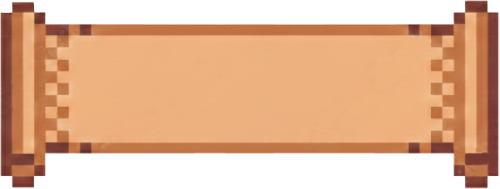
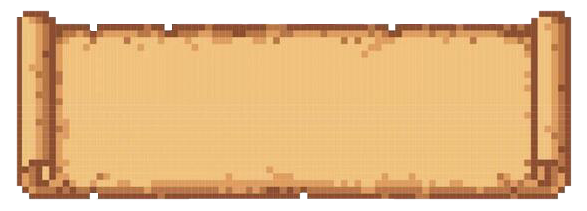
added controls menu that opens and closes

diff --git a/src/startMenu.ts b/src/startMenu.ts
@@ -39,26 +39,32 @@ class StartMenu {
   }
 
   public draw() {
+    image(
+      images.menuImages.background,
+      0,
+      0,
+      GamePanel.screenWidth,
+      GamePanel.screenHeight,
+    );
+    image(images.menuImages.logo, GamePanel.worldWidth / 2 - 150, 60, 300, 145);
     if (this.controlsOnScreen === true) {
       this.drawControls();
     } else {
-      image(
-        images.menuImages.background,
-        0,
-        0,
-        GamePanel.screenWidth,
-        GamePanel.screenHeight,
-      );
-      image(images.menuImages.logo, GamePanel.worldWidth / 2 - 150, 60, 300, 145);
-      push();
       this.startButton.draw();
       this.showControls.draw();
     }
   }
+
   public drawControls() {
-    push();
     image(
-      images.menuImages.button, GamePanel.worldWidth / 2 - GamePanel.worldWidth / 2 + 25, GamePanel.worldHeight / 2 - GamePanel.worldHeight / 2 + 25, GamePanel.worldWidth - 50, GamePanel.worldHeight - 50)
-    pop();
+      images.menuImages.controls,
+      GamePanel.worldWidth / 2 - GamePanel.worldWidth / 2 + 125,
+      GamePanel.worldHeight / 2 - GamePanel.worldHeight / 2 + 100,
+      GamePanel.worldWidth - 250,
+      GamePanel.worldHeight - 200,
+    );
+    if (keyIsDown(ESCAPE)) {
+      this.controlsOnScreen = false;
+    }
   }
 }

diff --git a/src/game.ts b/src/game.ts
@@ -6,19 +6,19 @@ class Game {
 
   constructor() {
     this.levelFactory = new LevelFactory(tiles, 0, 0);
-    this.level = new Level([])
+    this.level = new Level([]);
     this.startMenu = new StartMenu(this);
   }
-  
+
   public startGame() {
     this.gameIsStarted = true;
     this.level = this.levelFactory.generateLevel(0);
   }
-  
-  
+
   public draw() {
+    background(0);
     if (this.gameIsStarted === true) {
-      this.level.draw()
+      this.level.draw();
     } else {
       this.startMenu.draw();
     }
@@ -26,7 +26,7 @@ class Game {
 
   public update() {
     if (this.gameIsStarted === true) {
-      this.level.update()
+      this.level.update();
     } else {
       this.startMenu.update();
     }

diff --git a/src/sketch.ts b/src/sketch.ts
@@ -38,6 +38,7 @@ let images: {
     button: p5.Image;
     logo: p5.Image;
     swordcursor: p5.Image;
+    controls: p5.Image;
   }
 };
 
@@ -87,7 +88,8 @@ function preload() {
       background: loadImage("assets/images/menubackground.png"),
       button: loadImage("assets/images/button.png"),
       logo: loadImage("assets/images/logo.png"),
-      swordcursor: loadImage("assets/images/swordcursor.png")
+      swordcursor: loadImage("assets/images/swordcursor.png"),
+      controls: loadImage("assets/images/controls.png")
     }
   };
 

diff --git a/src/button.ts b/src/button.ts
@@ -35,7 +35,7 @@ class Button {
         textFont(fonts.font)
         textSize(15)
         textAlign(LEFT, TOP);
-        text(this.label, this.buttonPos.x + this.size.x / 2 - textWidth(this.label) / 2, this.buttonPos.y + this.size.y / 2 - textSize() / 1.3);
+        text(this.label, this.buttonPos.x + this.size.x / 2 - textWidth(this.label) / 2, this.buttonPos.y + this.size.y / 2 - textSize() / 1.6);
         pop();
     }
 

diff --git a/src/level.ts b/src/level.ts
@@ -53,9 +53,6 @@ class Level {
     pop();
   }
   public drawTreasure() {}
-  public checkCollisions() {
-    
-  }
 
   public updateGame() {}
 }
